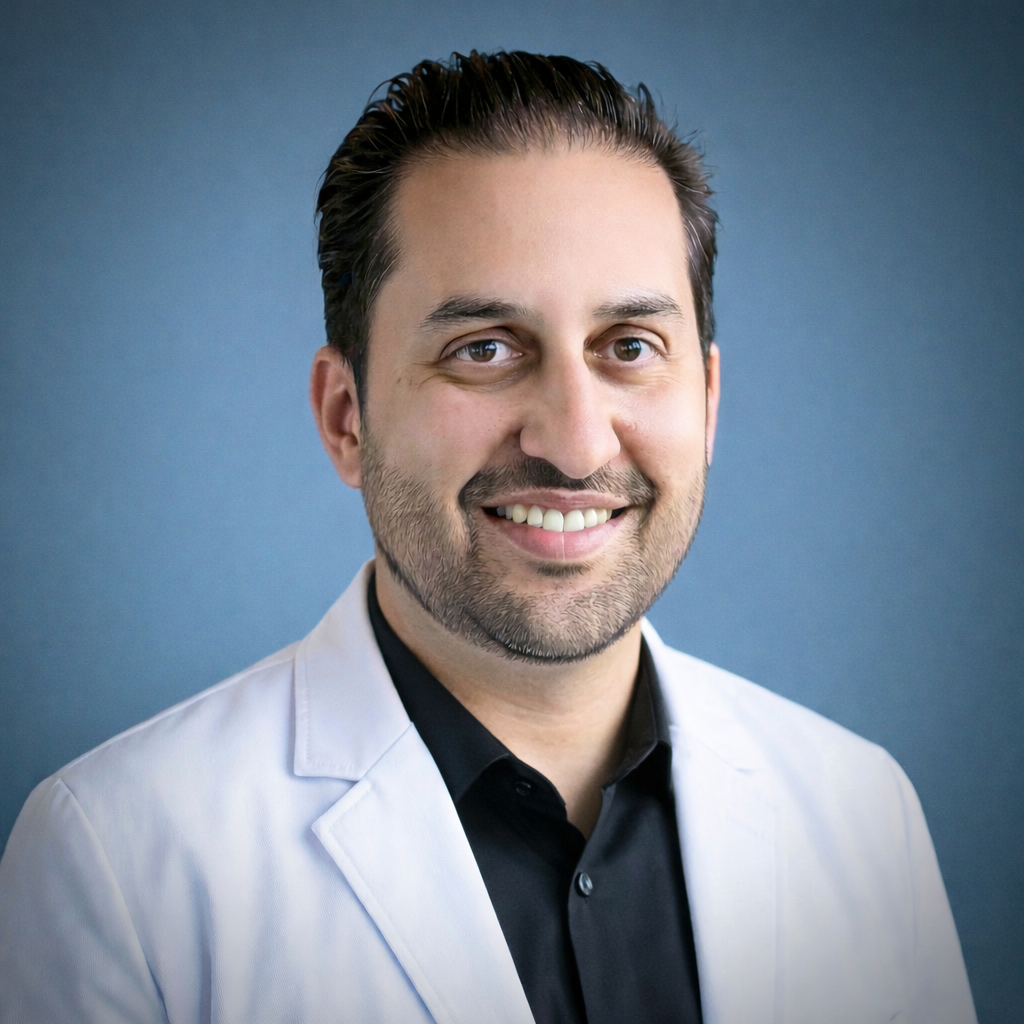
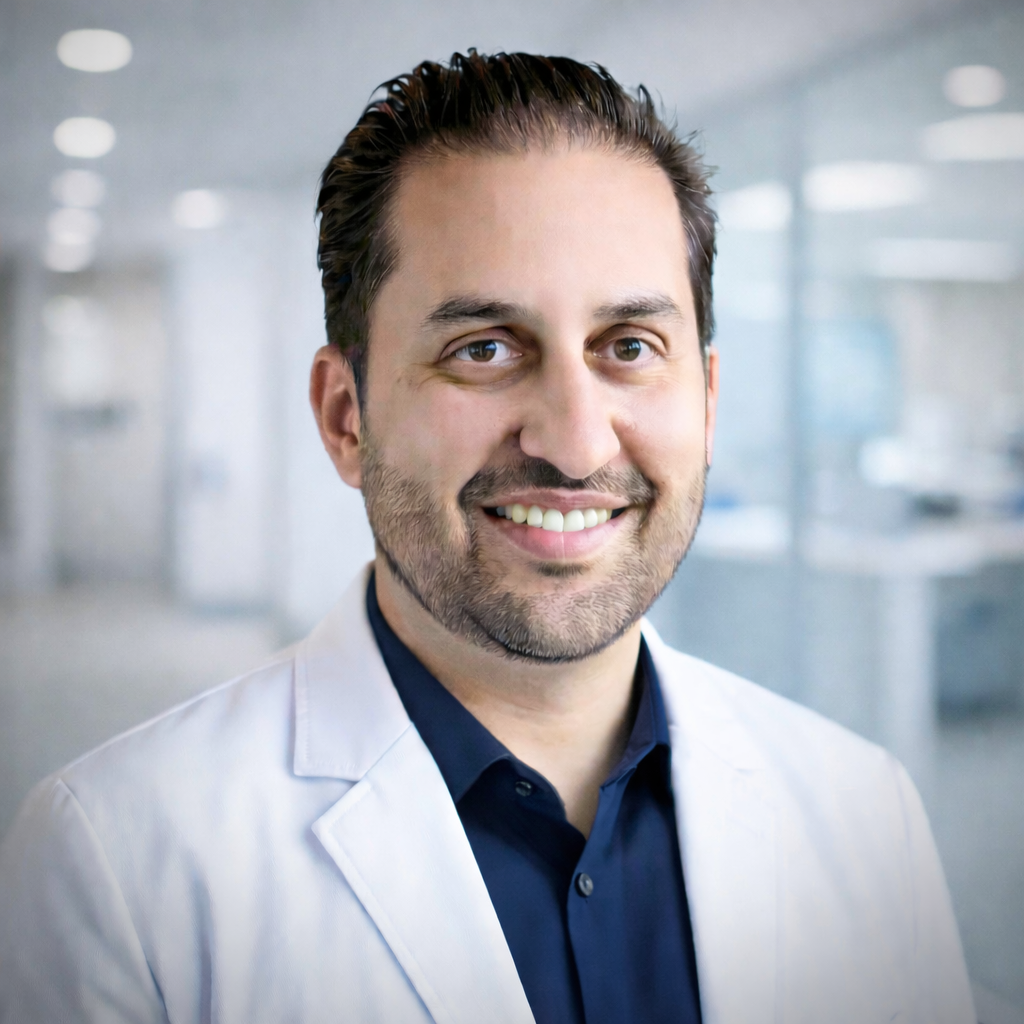
Add updated provider, diabetes, and respirology page images

diff --git a/app/services/respirology/page.tsx b/app/services/respirology/page.tsx
@@ -1,4 +1,5 @@
 import type { Metadata } from 'next';
+import Image from 'next/image';
 import Link from 'next/link';
 import { Stethoscope, CheckCircle2, ArrowRight } from 'lucide-react';
 
@@ -27,8 +28,15 @@ export default function RespirologPage() {
               <Link href="/how-it-works" className="btn-secondary">How It Works</Link>
             </div>
           </div>
-          <div className="aspect-[4/3] rounded-3xl bg-gradient-to-br from-brand-50 to-sage-100 flex items-center justify-center">
-            <p className="text-navy-400 text-sm">[Image: Respiratory care / inhaler context]</p>
+          <div className="relative aspect-[4/3] rounded-3xl overflow-hidden bg-navy-50 shadow-soft-lg">
+            <Image
+              src="/images/services/respirology-care.png"
+              alt="Respiratory care consultation and inhaler management"
+              fill
+              className="object-cover"
+              sizes="(max-width: 1024px) 100vw"
+              priority
+            />
           </div>
         </div>
       </section>

diff --git a/app/services/diabetes/page.tsx b/app/services/diabetes/page.tsx
@@ -1,4 +1,5 @@
 import type { Metadata } from 'next';
+import Image from 'next/image';
 import Link from 'next/link';
 import { Activity, CheckCircle2, ArrowRight } from 'lucide-react';
 
@@ -26,8 +27,15 @@ export default function DiabetesPage() {
               <Link href="/how-it-works" className="btn-secondary">How It Works</Link>
             </div>
           </div>
-          <div className="aspect-[4/3] rounded-3xl bg-gradient-to-br from-brand-50 to-warm-50 flex items-center justify-center">
-            <p className="text-navy-400 text-sm">[Image: Day-to-day diabetes management]</p>
+          <div className="relative aspect-[4/3] rounded-3xl overflow-hidden bg-navy-50 shadow-soft-lg">
+            <Image
+              src="/images/services/diabetes-care.png"
+              alt="Diabetes care consultation with physician and patient"
+              fill
+              className="object-cover"
+              sizes="(max-width: 1024px) 100vw"
+              priority
+            />
           </div>
         </div>
       </section>

diff --git a/app/for-providers/page.tsx b/app/for-providers/page.tsx
@@ -1,4 +1,5 @@
 import type { Metadata } from 'next';
+import Image from 'next/image';
 import Link from 'next/link';
 import { FileText, Clock, CheckCircle2, ArrowRight, Download } from 'lucide-react';
 
@@ -27,8 +28,15 @@ export default function ForProvidersPage() {
               </Link>
             </div>
           </div>
-          <div className="aspect-[4/3] rounded-3xl bg-gradient-to-br from-navy-50 to-brand-50 flex items-center justify-center">
-            <p className="text-navy-400 text-sm">[Image: Professional clinical workspace]</p>
+          <div className="relative aspect-[4/3] rounded-3xl overflow-hidden bg-navy-50 shadow-soft-lg">
+            <Image
+              src="/images/for-providers/physician-page.png"
+              alt="Physician team and workspace for referring providers"
+              fill
+              className="object-cover"
+              sizes="(max-width: 1024px) 100vw"
+              priority
+            />
           </div>
         </div>
       </section>
